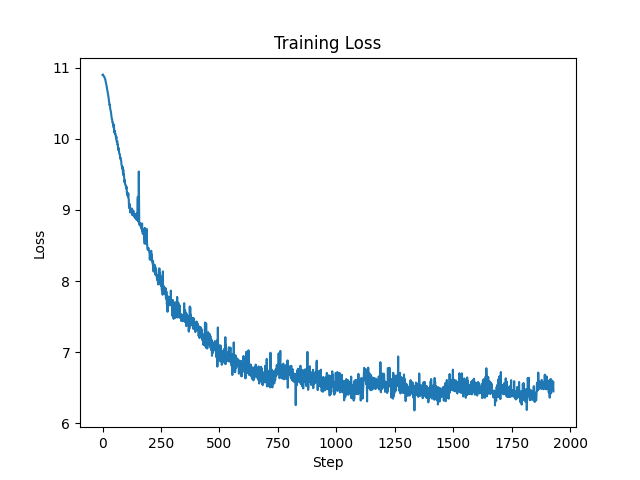
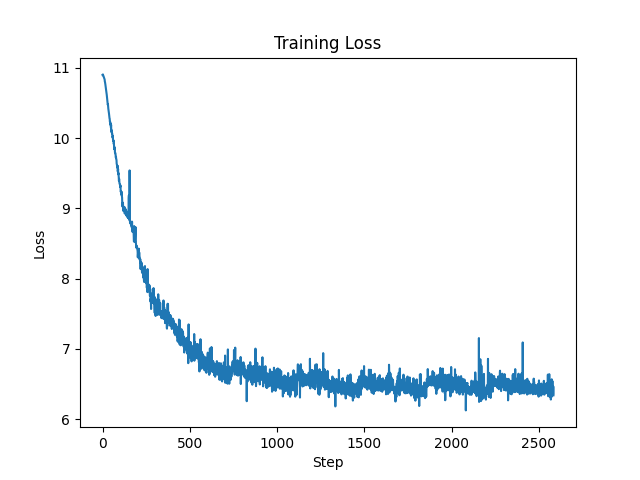
after alternate script and process grp changes

diff --git a/DTensor/gpt2_tp_test/gpt2_tp_mlp_test.cpp b/DTensor/gpt2_tp_test/gpt2_tp_mlp_test.cpp
@@ -400,10 +400,8 @@ int main(int argc, char** argv) {
         
         const float max_lr = 1e-4f;  
         const float min_lr = max_lr * 0.1f;
-        const int warmup_steps = 259;
-        const int max_steps = 2584;
-
-
+        
+        
         
         std::cout << "Configuration:" << std::endl;
         std::cout << "  vocab_size: " << config.vocab_size << std::endl;
@@ -428,7 +426,7 @@ int main(int argc, char** argv) {
         for (int i = 0; i < world_size; i++) ranks_vec[i] = i;
         DeviceMesh mesh({world_size}, ranks_vec);
         auto pg = mesh.get_process_group(0);
-
+        
         std::cout << "\nInitializing model on CUDA device "<< device.index << "..." << std::endl;
         
         // Create model
@@ -438,10 +436,16 @@ int main(int argc, char** argv) {
         std::vector<DTensor*> params = model.parameters();
         int64_t num_params = 0;
         for(auto& p : params) num_params += p->mutable_tensor().numel();
-
+        
+                const int max_steps = num_params * 5 / global_batch;
+                const int warmup_steps = max_steps / 10;
+        
         if(rank == 0){
             std::cout << "Number of parameters: " << num_params << std::endl;
+            std::cout << "Number of steps: " << max_steps << std::endl;
+            std::cout << "Number of warmup_steps: " << warmup_steps << std::endl;
         }
+        
         // std::cout << "(Note: More params than weight-tied version due to separate W_out)" << std::endl;
         
         // Get all parameters
@@ -479,19 +483,22 @@ int main(int argc, char** argv) {
             std::string config_filename = "TP_MLP_Training_log" + std::to_string(log_idx) + "_config.txt";
             std::ofstream config_file(config_filename);
             config_file << "Configuration:\n";
-            config_file << "  vocab_size: " << config.vocab_size << "\n";
+            config_file << "  Batch_size: " << B << "\n";
             config_file << "  context_length: " << config.context_length << "\n";
             config_file << "  n_embd: " << config.n_embd << "\n";
+            config_file << "  vocab_size: " << config.vocab_size << "\n";
             config_file << "  n_layers: " << config.n_layers << "\n";
-            config_file << "  B: " << B << "\n";
-            config_file << "  T: " << T << "\n";
             config_file << "  global_batch: " << global_batch << "\n";
             config_file << "  grad_accum_steps: " << grad_accum_steps << "\n";
             config_file << "  Number of parameters: " << num_params << "\n";
+            config_file << "  Max Learning Rate: " << max_lr << "\n";
+            config_file << "  Min Learning Rate: " << min_lr << "\n";
+            config_file << "  Number of steps: " << max_steps << "\n";
+            config_file << "  Number of warmup_steps: " << warmup_steps << "\n";
             config_file.close();
 
             log_file.open(log_filename);
-            log_file << "step,loss,val_loss,lr,grad_norm,dt_ms,tok_per_sec\n";
+            log_file << "step,loss,val_loss,lr,grad_norm,dt_ms,tok_per_sec,timer_step, timer_data, timer_fwd, timer_loss, timer_bwd, timer_clip, timer_optim\n";
             log_file << std::fixed << std::setprecision(6);
         }
         
